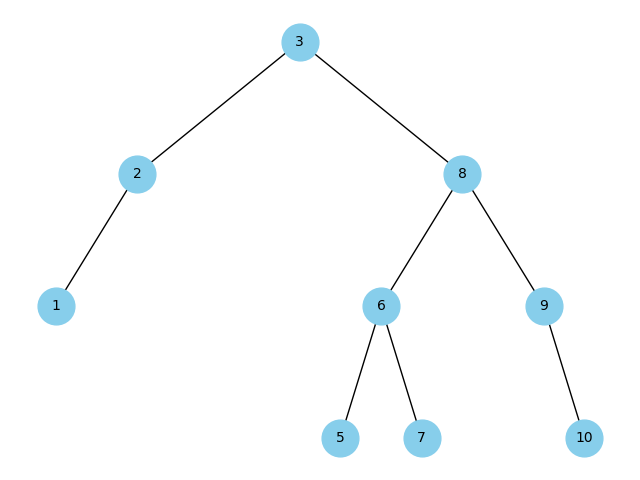
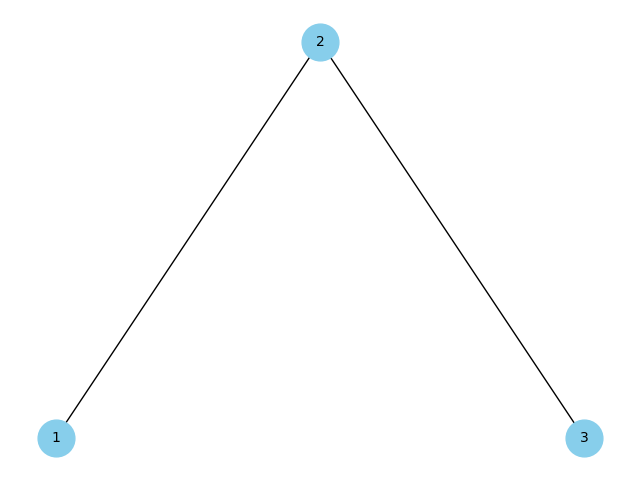
cambio srr

diff --git a/SRC/Tree.py b/SRC/Tree.py
@@ -70,15 +70,16 @@ class Tree:
         aux = node.left
         node.left = aux.right
         aux.right = node
+        father = self.search_Father(node.data)
         if node.data == self.root.data:
             self.root = aux
-        father = self.search_Father(node.data)
-        if father.left is not None:
-            if father.right.data == node.data:
-                father.right = aux
-        if father.right is not None:
-            if father.left.data == node.data:
-                father.left = aux
+        if father is not None:
+            if father.left is not None:
+                if father.right.data == node.data:
+                    father.right = aux
+            if father.right is not None:
+                if father.left.data == node.data:
+                    father.left = aux
 
     def slr(self, node) -> Node:
         aux = node.right
@@ -325,8 +326,25 @@ class Tree:
         pass
 
     # Ya
-    def _search_Uncle(self) -> None:
-        pass
+    def _search_Uncle(self, node, node2, node3, elem):
+        if node is not None:
+            if elem == node.data:
+                return node3
+            elif (elem < node.data):
+                if node2 is not None:
+                    if node == node2.left:
+                        return self._search_Uncle(node.left, node, node2.right, elem)
+                    else:
+                        return self._search_Uncle(node.left, node, node2.left, elem)
+                return self._search_Uncle(node.left, node, None, elem)
+            else:
+                if node2 is not None:
+                    if node == node2.left:
+                        return self._search_Uncle(node.right, node, node2.right, elem)
+                    else:
+                        return self._search_Uncle(node.right, node, node2.left, elem)
+                return self._search_Uncle(node.right, node, None, elem)
+        return None
 
 
 def draw_binary_tree(root, relative_path, filename):
@@ -362,22 +380,13 @@ def draw_binary_tree(root, relative_path, filename):
     plt.close()
 
 
-"""
 T = Tree()
-T._Insert_New_node(1)
-T._Insert_New_node(2)
 T._Insert_New_node(3)
-T._Insert_New_node(4)
-T._Insert_New_node(5)
-T._Insert_New_node(6)
-T._Insert_New_node(7)
-T._Insert_New_node(8)
-T._Insert_New_node(9)
-T._Insert_New_node(10)
-T.Delete_Node(4)
+T._Insert_New_node(2)
+T._Insert_New_node(1)
 ruta_actual = os.path.dirname(os.path.abspath(__file__))
 
 # Paso 2: Construir la ruta de la carpeta dentro de tu proyecto
 ruta_carpeta_objetivo = os.path.join(ruta_actual)
 
-draw_binary_tree(T.root, ruta_carpeta_objetivo, "Prueba")"""
+draw_binary_tree(T.root, ruta_carpeta_objetivo, "Prueba")
